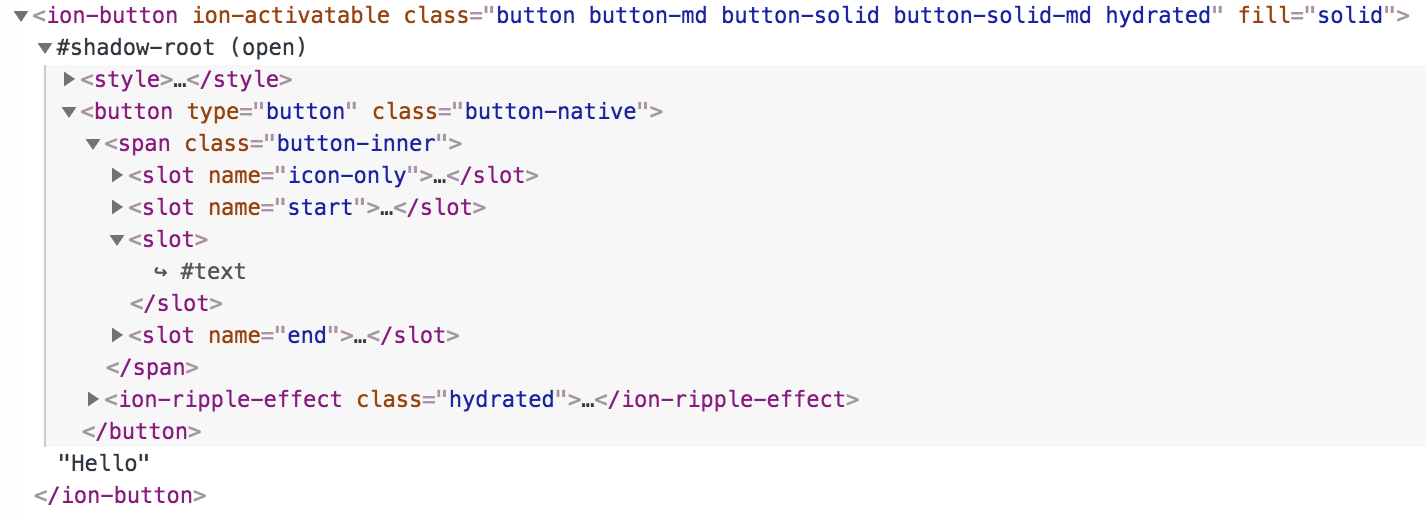
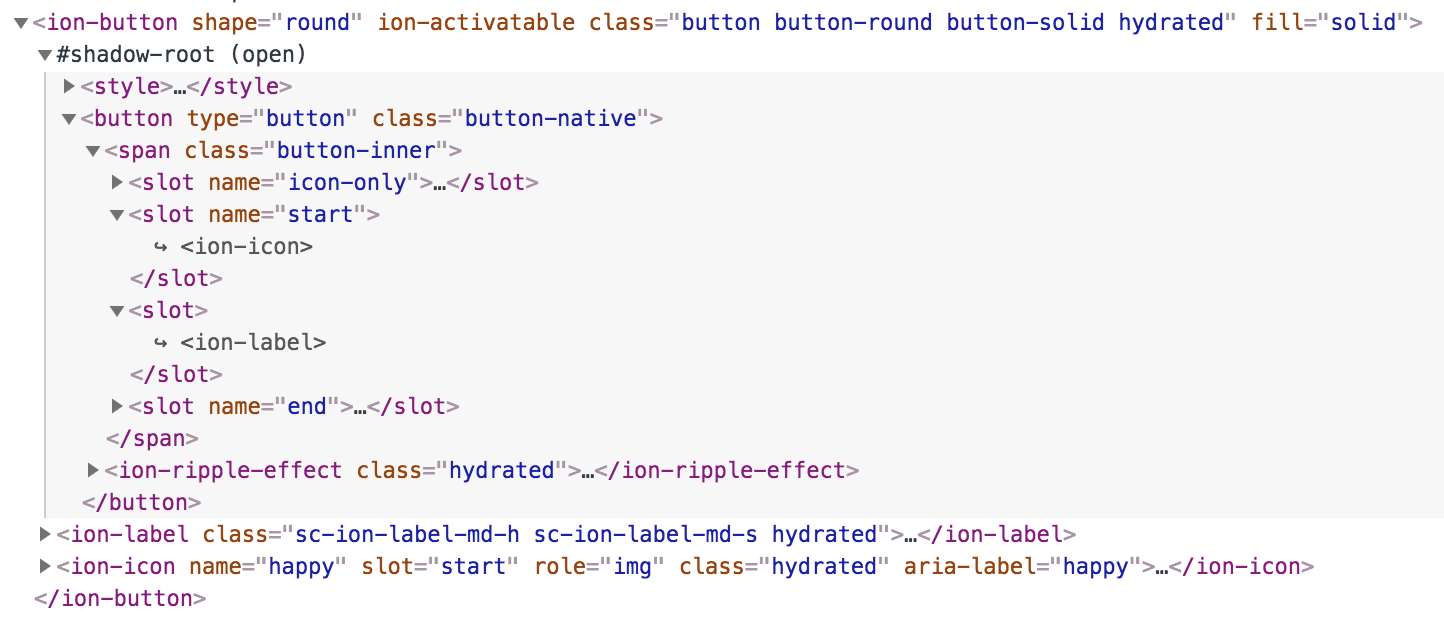
Improve web components slide

Changed region(s): [[0.0, 0.0, 0.9874, 0.9942]]

diff --git a/src/index.html b/src/index.html
@@ -69,7 +69,7 @@
                         <li>CSS4 variables</li>
                         <li>What's Ionic?</li>
                         <li>Wrapped up, Ionic v4</li>
-                        <li>Demo</li>
+                        <li>Repeat</li>
                     </ol>
                 </ion-card>
             </ion-slide>
@@ -86,27 +86,17 @@
                 <ion-card no-shadow>
                     <h1>Shadom DOM</h1>
 
-                    <ion-grid padding-top>
-                        <ion-row align-items-center justify-content-center>
-                            <ion-col size="4">
-                                <ion-list lines="none">
-                                    <ion-item>
-                                        <ion-label text-wrap><strong>Isolated DOM</strong></ion-label>
-                                        <ion-checkbox slot="start" checked></ion-checkbox>
-                                    </ion-item>
+                    <ion-list lines="none" padding-top>
+                        <ion-item>
+                            <ion-label text-wrap><strong>Isolated DOM</strong></ion-label>
+                            <ion-checkbox slot="start" checked></ion-checkbox>
+                        </ion-item>
 
-                                    <ion-item>
-                                        <ion-label text-wrap><strong>Isolated CSS</strong></ion-label>
-                                        <ion-checkbox slot="start" checked></ion-checkbox>
-                                    </ion-item>
-                                </ion-list>
-                            </ion-col>
-
-                            <ion-col size="8">
-                                <img src="assets/img/shadow-dom-no-details.png" class="add-box-shadow"/>
-                            </ion-col>
-                        </ion-row>
-                    </ion-grid>
+                        <ion-item>
+                            <ion-label text-wrap><strong>Isolated CSS</strong></ion-label>
+                            <ion-checkbox slot="start" checked></ion-checkbox>
+                        </ion-item>
+                    </ion-list>
                 </ion-card>
             </ion-slide>
 
@@ -117,11 +107,22 @@
                     <ion-grid padding-top>
                         <ion-row align-items-center justify-content-center>
                             <ion-col size="12">
-                                <code padding margin text-left>&lt;ion-button&gt;Hello&lt;/ion-button&gt;</code>
+                                <code padding margin text-left>&lt;ion-button&gt;
+    &lt;ion-label&gt;Hello world&lt;/ion-label&gt;
+    &lt;ion-icon name="happy" slot="start"&gt;&lt;/ion-icon&gt;
+&lt;/ion-button&gt;
+                                </code>
                             </ion-col>
 
                             <ion-col size="12">
-                                <img src="assets/img/shadow-dom-details.png" class="add-box-shadow"/>
+                                <ion-button shape="round">
+                                    <ion-label>Hello world</ion-label>
+                                    <ion-icon name="happy" slot="start"></ion-icon>
+                                </ion-button>
+                            </ion-col>
+
+                            <ion-col size="12">
+                                <img src="assets/img/shadow-dom-details.png" class="add-box-shadow" style="margin-top: 12px;"/>
                             </ion-col>
                         </ion-row>
                     </ion-grid>
@@ -136,7 +137,7 @@
                         <ion-row align-items-center justify-content-center>
                             <ion-col size="12">
                                 <code padding margin text-left>ion-button button {
-    background: yellow !important; // -> No effect
+    background: yellow !important; // -> Not cool
 }
 
 ion-button {
@@ -144,8 +145,22 @@ ion-button {
 }</code>
                             </ion-col>
 
+                            <ion-col size="6">
+                                <ion-button shape="round" class="demo-b1">
+                                    <ion-label>Hello world in yellow</ion-label>
+                                    <ion-icon name="happy" slot="start"></ion-icon>
+                                </ion-button>
+                            </ion-col>
+
+                            <ion-col size="6">
+                                <ion-button shape="round" class="demo-b2">
+                                    <ion-label>Hello world in red</ion-label>
+                                    <ion-icon name="happy" slot="start"></ion-icon>
+                                </ion-button>
+                            </ion-col>
+
                             <ion-col size="12">
-                                <img src="assets/img/shadow-dom-css.png" class="add-box-shadow"/>
+                                <img src="assets/img/shadow-dom-css.png" class="add-box-shadow" style="margin-top: 12px;"/>
                             </ion-col>
                         </ion-row>
                     </ion-grid>

diff --git a/src/css/theme.css b/src/css/theme.css
@@ -44,3 +44,11 @@ ion-list ion-label[text-wrap].sc-ion-label-md-h{
 img.add-box-shadow, code {
     box-shadow: 0 4px 6px 0 rgba(0, 0, 0, .14), 0 4px 5px rgba(0, 0, 0, .1);
 }
+
+ion-button.demo-b1 button {
+    background: yellow !important;
+}
+
+ion-button.demo-b2 {
+    --background: red;
+}
